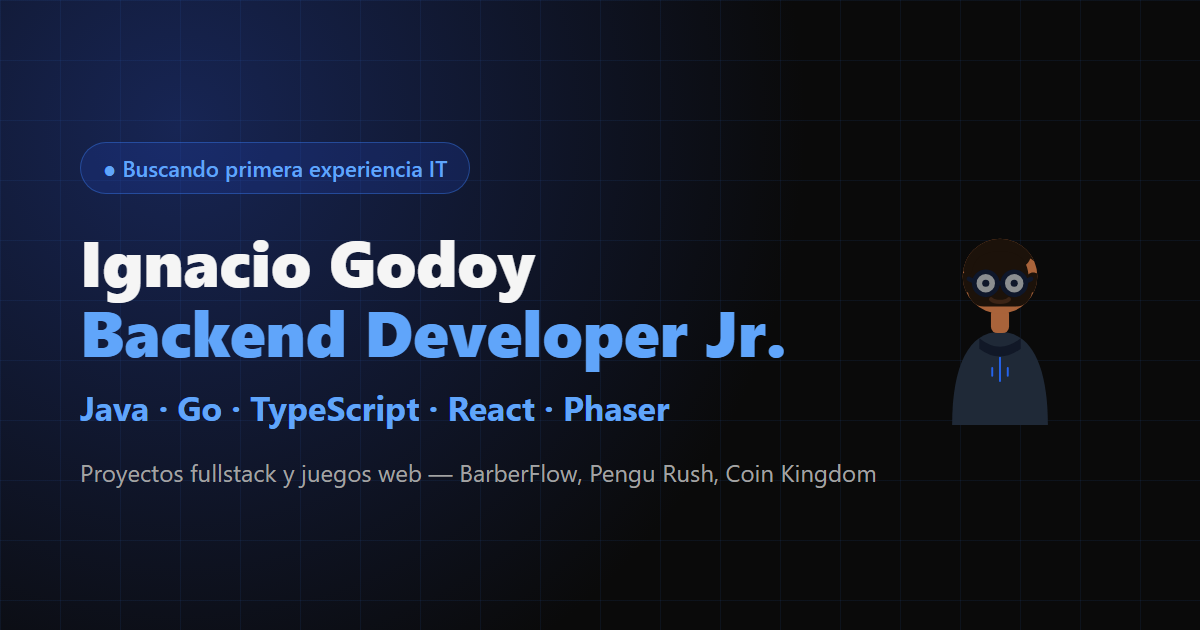
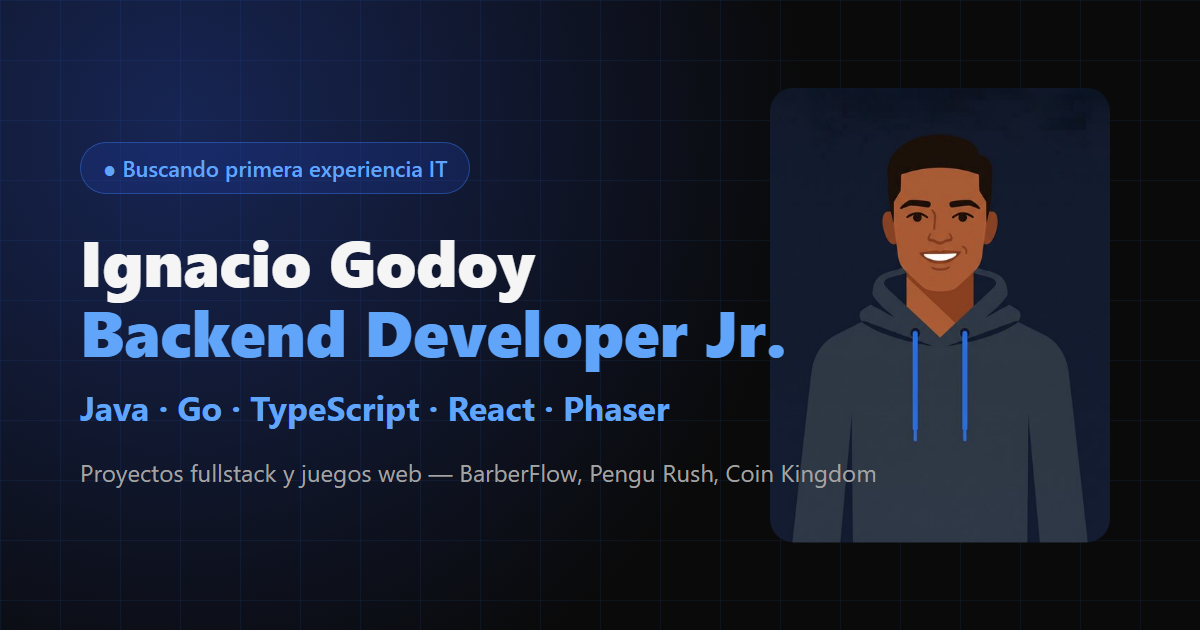
Reemplazo el personaje e icono dibujados a mano por las versiones de Gemini
Ignacio genero el personaje y el favicon con Gemini a partir de los
prompts que le pase (misma paleta: piel #a9633a, hoodie azulado, acentos
#2563eb). Optimizo ambas imagenes (1.8MB/1.4MB -> 14KB/44KB), las integro
en la seccion "Mi camino" y como favicon.png, y regenero la og-image con
el personaje nuevo para que todo quede consistente.

Changed region(s): [[0.6167, 0.1206, 0.925, 0.8746]]

diff --git a/src/components/sections/AboutSection.jsx b/src/components/sections/AboutSection.jsx
@@ -1,7 +1,7 @@
 import { Briefcase, GraduationCap, Scissors } from "lucide-react";
 import { GradientHeading } from "@/components/ui/gradient-heading";
 import { Reveal } from "@/components/Reveal";
-import avatarFull from "@/assets/avatar-full.svg";
+import avatarFull from "@/assets/avatar-full.jpg";
 
 const timeline = [
   {
@@ -43,9 +43,9 @@ export function AboutSection() {
         <img
           src={avatarFull}
           alt="Ilustración de Ignacio Godoy"
-          className="w-40 md:w-48 mx-auto md:mx-0"
-          width={192}
-          height={272}
+          className="w-40 md:w-48 mx-auto md:mx-0 rounded-2xl border border-neutral-800"
+          width={480}
+          height={642}
         />
 
         <ol className="space-y-6 border-l border-neutral-800 pl-6">

diff --git a/index.html b/index.html
@@ -2,7 +2,7 @@
 <html lang="es" class="dark">
   <head>
     <meta charset="UTF-8" />
-    <link rel="icon" type="image/svg+xml" href="/favicon.svg" />
+    <link rel="icon" type="image/png" href="/favicon.png" />
     <meta name="viewport" content="width=device-width, initial-scale=1.0" />
     <title>Ignacio Godoy | Backend Developer Jr.</title>
 
